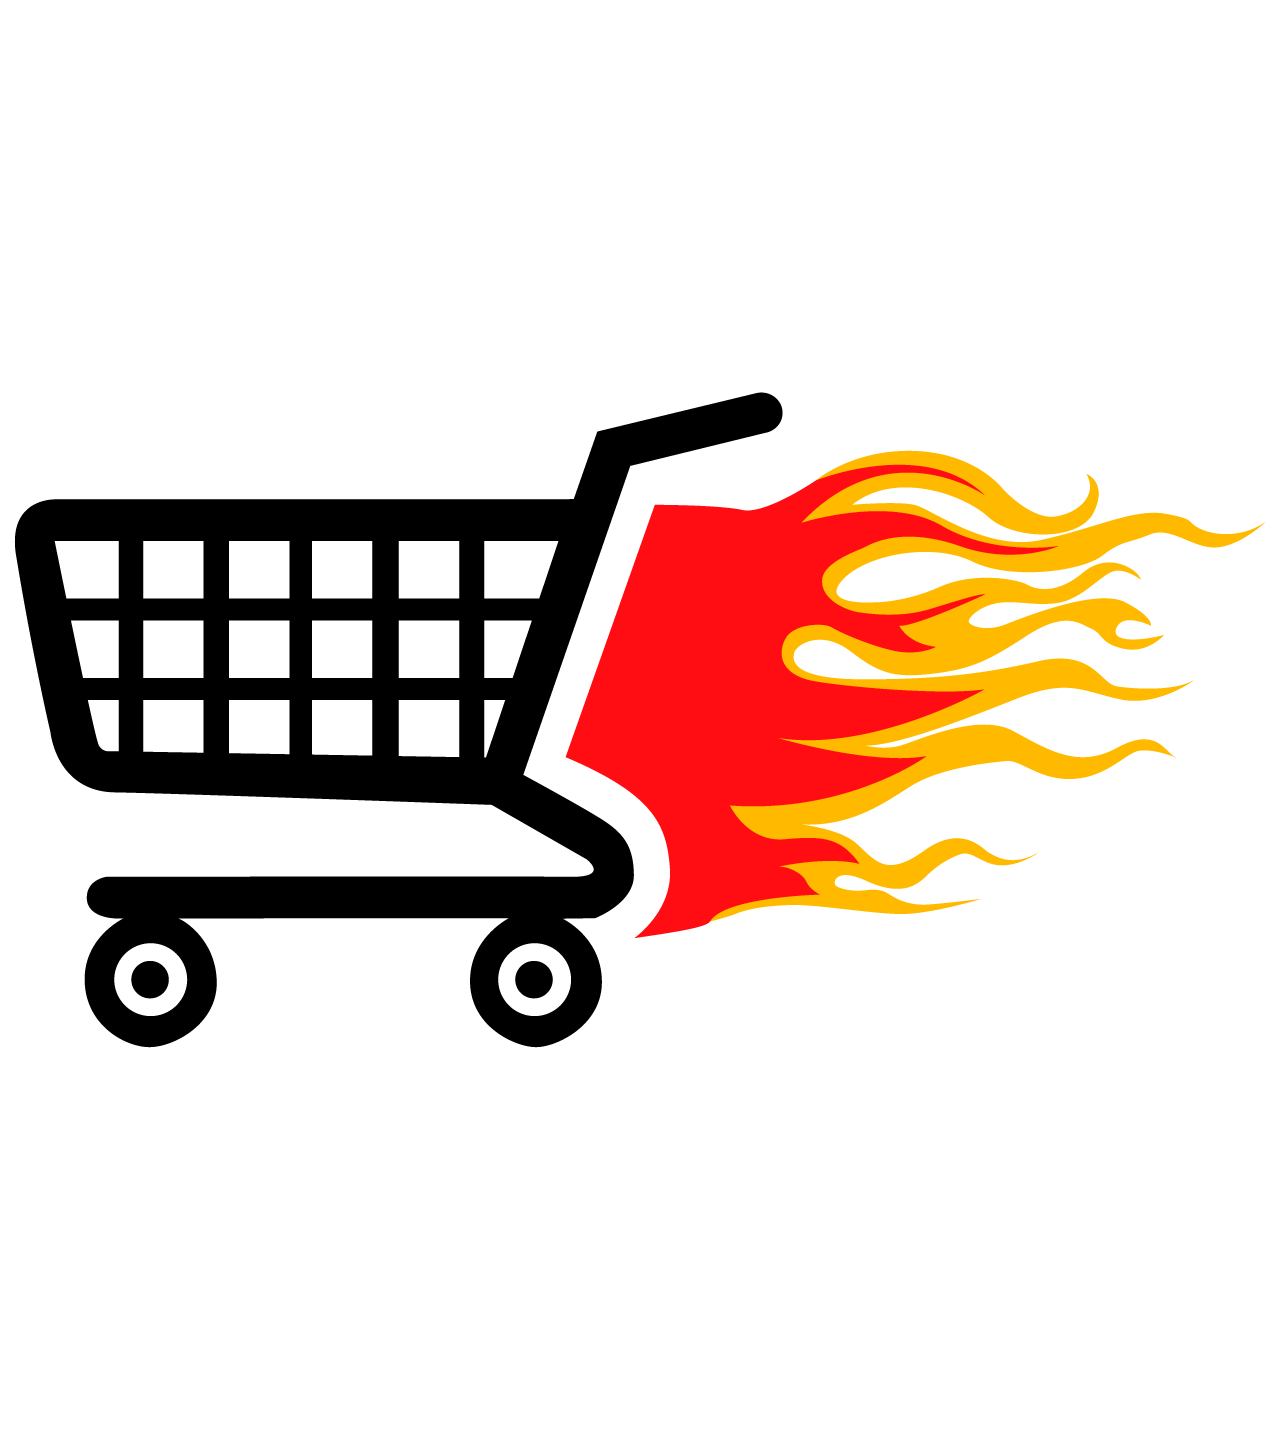
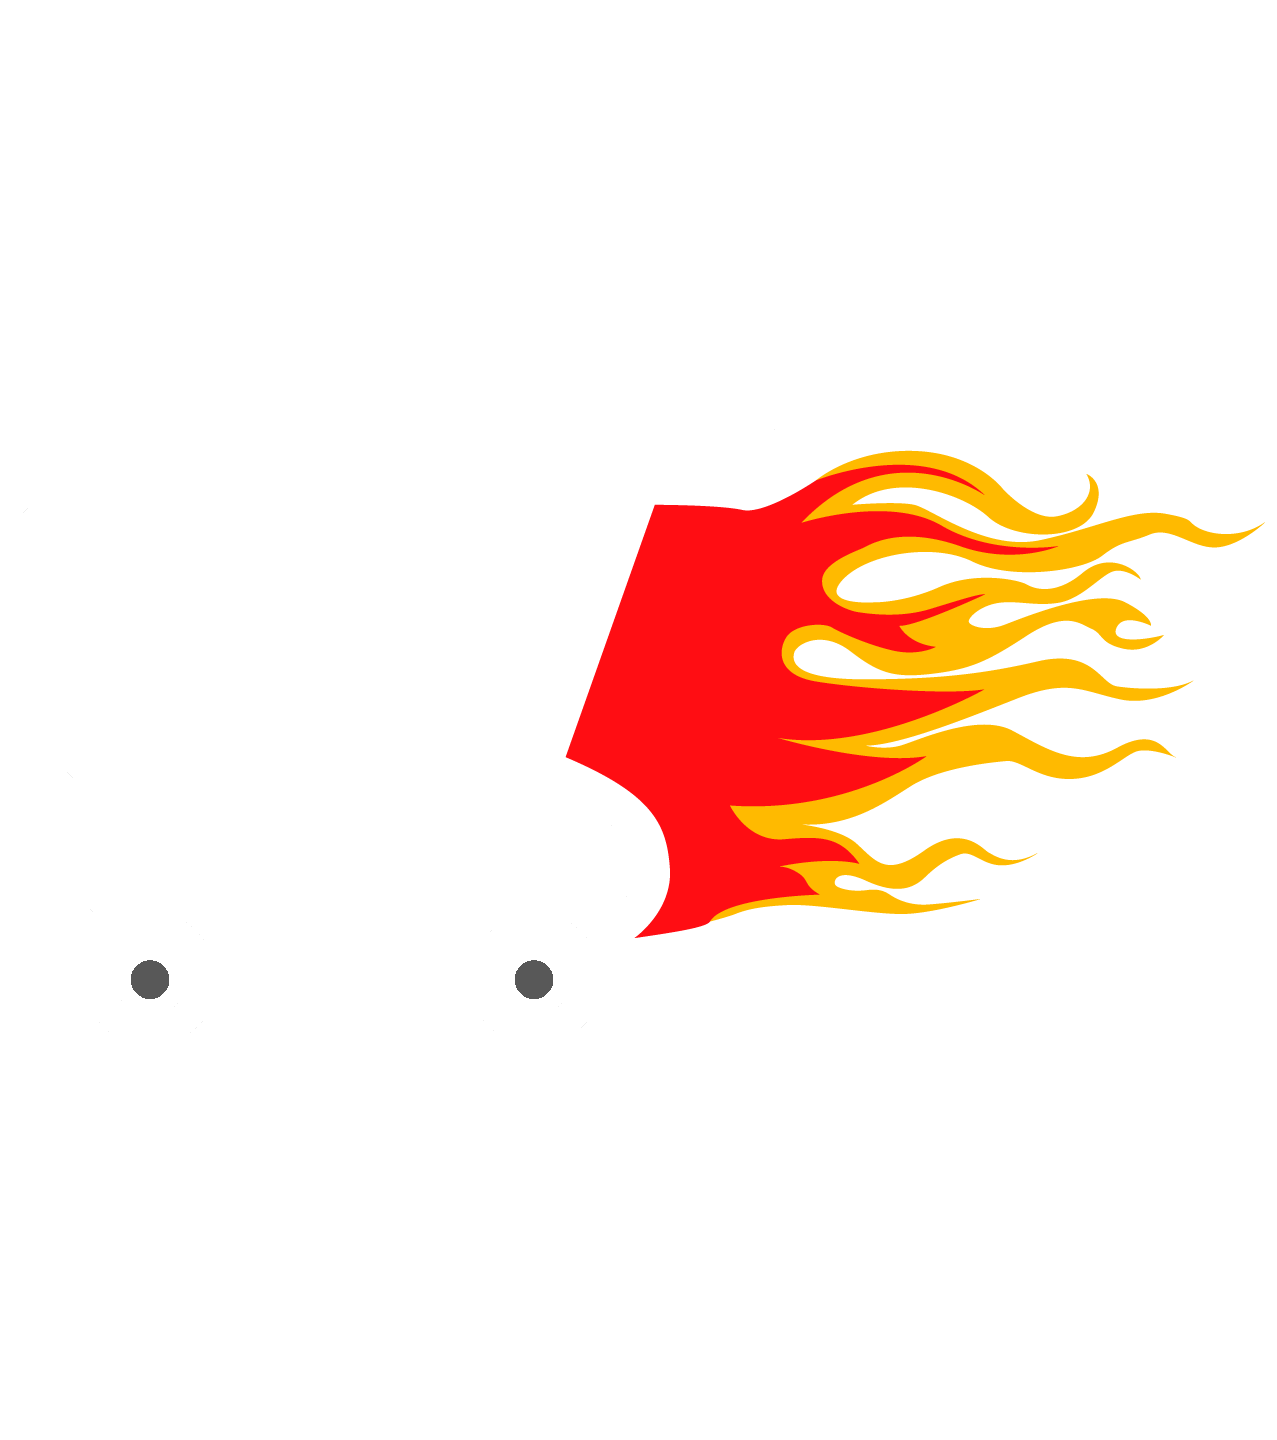
modificacion pagina carrito

Changed region(s): [[0.0, 0.25, 0.6108, 0.75]]

diff --git a/cart.html b/cart.html
@@ -105,46 +105,18 @@
 						    </thead>
 						    <tbody>
 						      <tr class="text-center">
-						        <td class="product-remove"><a href="#"><span class="ion-ios-close"></span></a></td>
+						        <td><a ></span></a></td>
 
-						        <td class="image-prod"><div class="img" style="background-image:url(images/prod-1.png);"></div></td>
-                     <td class="image-prod"><div class="img" style="images/karrito.png"></div></td>
-
-						        <td class="product-name">
-						        	<h3>Motor Detroit DD15</h3>
-						        	<p>Incorpora una variedad de innovaciones. Un turbocargador asimétrico patentado reduce la complejidad y el peso al mismo tiempo que mejora el desempeño.</p>
-						        </td>
-
-						        <td class="price">$500</td>
-
-						        <td class="quantity">
-						        	<div class="input-group mb-3">
-					             	<input type="text" name="quantity" class="quantity form-control input-number" value="1" min="1" max="100">
-					          	</div>
-					          </td>
-
-						        <td class="total">$500</td>
-						      </tr><!-- END TR-->
-
-						      <tr class="text-center">
-						        <td class="product-remove"><a href="#"><span class="ion-ios-close"></span></a></td>
-
-						        <td class="image-prod"><div class="img" style="background-image:url(images/product-4.png);"></div></td>
+						        <td class="image-prod"><div class="img" style="background-image:url(images/karrito.png);"></div></td>
+                     
 
 						        <td class="product-name">
-						        	<h3>LUXOTIK, MODELO: d2778</h3>
-						        	<p>Barreno 4x100. Barreno 2 No.Diametro de rin 15. Filtro por marca LUXOTIK. Medida de rin 15x6.5. offset 35. Hoyo Central 67.1. Acabado BP.</p>
-						        </td>
+						        	<h3>Aun no hay nada en su carrito de compra</h3>
+						        	
 
-						        <td class="price">$200</td>
+						       
 
-						        <td class="quantity">
-						        	<div class="input-group mb-3">
-					             	<input type="text" name="quantity" class="quantity form-control input-number" value="1" min="1" max="100">
-					          	</div>
-					          </td>
-
-						        <td class="total">$200</td>
+						        
 						      </tr><!-- END TR-->
 						    </tbody>
 						  </table>
@@ -157,7 +129,7 @@
     					<h3>Total del carrito</h3>
     					<p class="d-flex">
     						<span>Subtotal</span>
-    						<span>$700</span>
+    						<span>$0.00</span>
     					</p>
     					<p class="d-flex">
     						<span>Envío</span>
@@ -165,12 +137,12 @@
     					</p>
     					<p class="d-flex">
     						<span>Descuento</span>
-    						<span>$50.00</span>
+    						<span>$0.00</span>
     					</p>
     					<hr>
     					<p class="d-flex total-price">
     						<span>Total</span>
-    						<span>$650</span>
+    						<span>$0.00</span>
     					</p>
     				</div>
     				<p class="text-center"><a href="checkout.html" class="btn btn-primary py-3 px-4">Proceder al pago</a></p>
